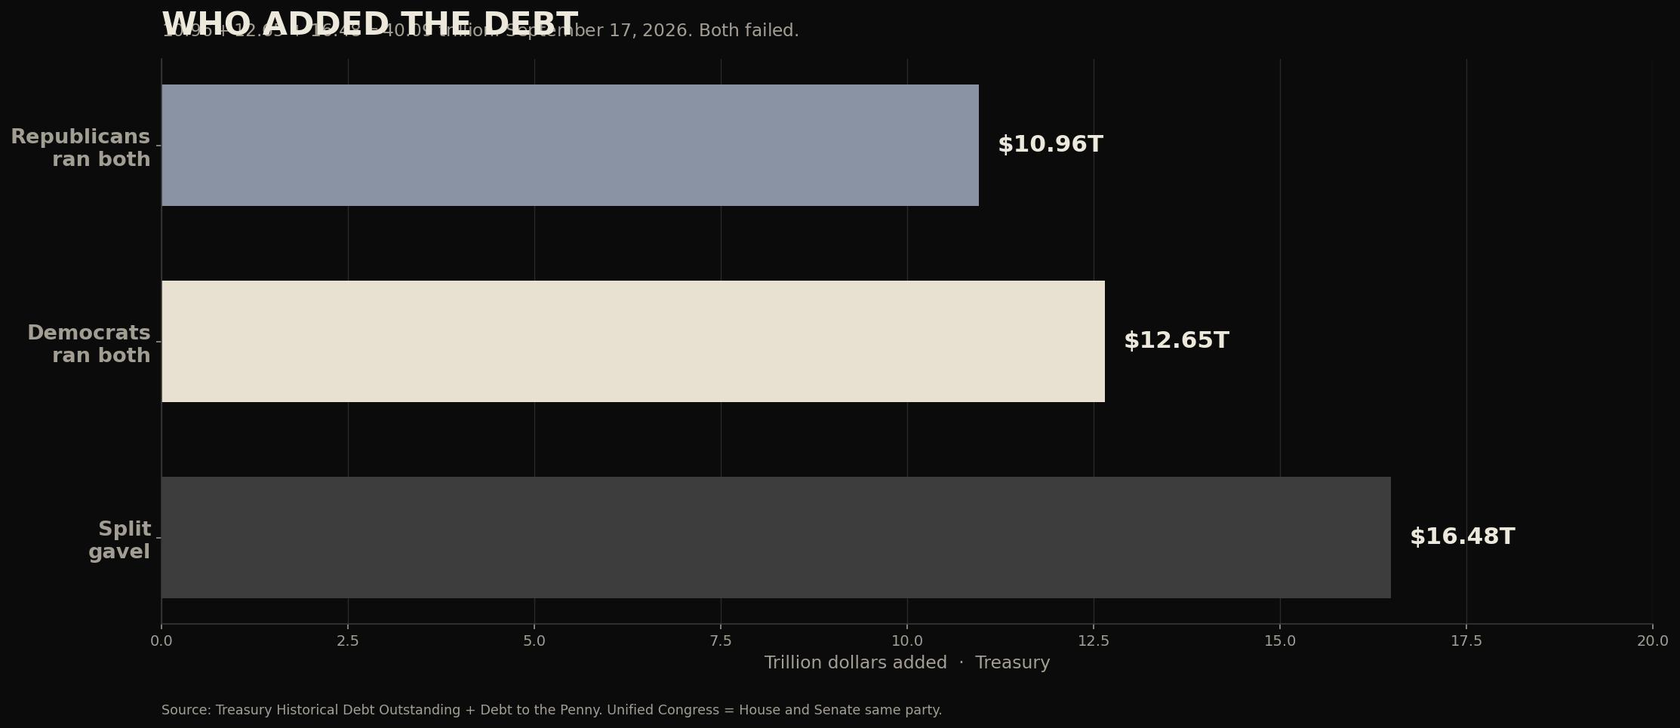
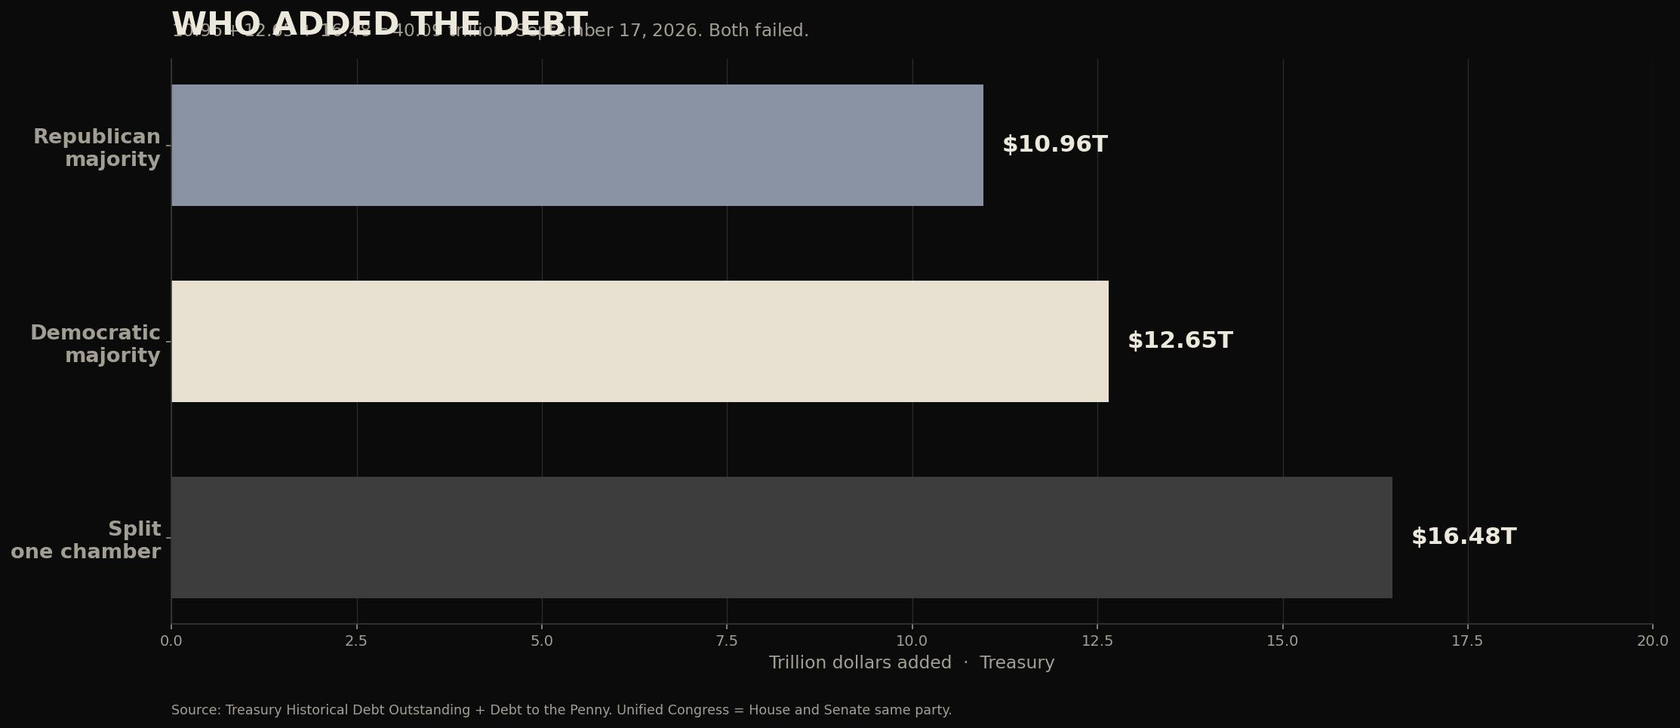
Compare: majority control is the purse. Obama both terms helped and hurt, with CPI on the ledger.

diff --git a/UPLOAD-TO-NAMECHEAP/scorecard.html b/UPLOAD-TO-NAMECHEAP/scorecard.html
@@ -118,12 +118,12 @@ footer .f{max-width:72rem;margin:0 auto;display:flex;justify-content:space-betwe
 <p class="btns"><a class="btn out" href="#gop-charts">Charts</a><a class="btn" href="#gop-read">Read</a></p>
 <h2>Republicans</h2>
 <p style="font-size:1.8rem;font-weight:800">+$10.96 trillion</p>
-<p>Ran both the House and the Senate: 1995–2001 · 2003–07 · 2015–19 · 2025–now</p>
+<p>Majority control of the House and the Senate: 1995–2001 · 2003–07 · 2015–19 · 2025–now. That is the purse. They could pass a spending bill without Democrats.</p>
 <p>Added about $10.96 trillion on those watches since 1995. Last surplus: late 1990s.</p>
 <p class="kicker">Helped</p>
-<ul><li><a href="https://www.congress.gov/bill/104th-congress/house-bill/3734"><strong>Welfare — work, or the check stops</strong><br/>H.R. 3734 · 1996</a></li><li><a href="https://www.congress.gov/bill/105th-congress/house-bill/2014"><strong>Tax cut on savings</strong><br/>H.R. 2014 · 1997</a></li><li><a href="https://www.congress.gov/bill/107th-congress/house-bill/1836"><strong>Fatter paycheck</strong><br/>H.R. 1836 · 2001</a></li><li><a href="https://www.congress.gov/bill/108th-congress/house-bill/2"><strong>Fatter paycheck, round two</strong><br/>H.R. 2 · 2003</a></li><li><a href="https://www.congress.gov/bill/115th-congress/house-bill/1"><strong>Fatter paycheck again. Not a surplus.</strong><br/>H.R. 1 · Tax Cuts and Jobs Act · 2017</a></li></ul>
+<ul><li><a href="https://www.congress.gov/bill/104th-congress/house-bill/3734"><strong>Welfare — work, or the check stops</strong><br/>H.R. 3734 · 1996</a></li><li><a href="https://www.congress.gov/bill/105th-congress/house-bill/2014"><strong>Tax cut on savings</strong><br/>H.R. 2014 · 1997</a></li><li><a href="https://www.congress.gov/bill/107th-congress/house-bill/1836"><strong>Fatter paycheck</strong><br/>H.R. 1836 · 2001</a></li><li><a href="https://www.congress.gov/bill/108th-congress/house-bill/2"><strong>Fatter paycheck, round two</strong><br/>H.R. 2 · 2003</a></li><li><a href="https://www.congress.gov/bill/115th-congress/house-bill/1"><strong>Fatter paycheck again. Not a surplus.</strong><br/>H.R. 1 · Tax Cuts and Jobs Act · 2017</a></li><li><a href="https://www.bls.gov/cpi/"><strong>Prices stayed down. CPI peak in the first Trump term: 2.9%.</strong><br/>BLS CPI · 2017–20</a></li><li><a href="https://www.cbp.gov/newsroom/stats/southwest-land-border-encounters"><strong>Southwest Border Patrol FY2025: 237,538. Lowest since 1970.</strong><br/>CBP · FY2025</a></li></ul>
 <p class="kicker">Hurt</p>
-<ul><li><a href="https://www.congress.gov/bill/107th-congress/house-joint-resolution/114"><strong>Iraq war — they voted yes</strong><br/>H.J.Res. 114 · 2002</a></li><li><a href="https://www.congress.gov/bill/108th-congress/house-bill/1"><strong>Drug benefit. They did not pay for it.</strong><br/>H.R. 1 · Medicare Part D · 2003</a></li><li><a href="https://www.congress.gov/bill/116th-congress/house-bill/748"><strong>COVID checks. Both parties. Then the fraud.</strong><br/>H.R. 748 · CARES Act · 2020</a></li><li><a href="https://www.congress.gov/bill/93rd-congress/house-bill/7130"><strong>They never finish the budget on time</strong><br/>H.R. 7130 · Budget Act · 1974</a></li></ul>
+<ul><li><a href="https://www.congress.gov/bill/107th-congress/house-joint-resolution/114"><strong>Iraq war — they voted yes</strong><br/>H.J.Res. 114 · 2002</a></li><li><a href="https://www.congress.gov/bill/108th-congress/house-bill/1"><strong>Drug benefit. They did not pay for it.</strong><br/>H.R. 1 · Medicare Part D · 2003</a></li><li><a href="https://fiscaldata.treasury.gov/datasets/historical-debt-outstanding/"><strong>Republican majority 2015–17, Obama still in the Oval. Debt still climbed. They did not close October 1.</strong><br/>Treasury · Historical Debt Outstanding</a></li><li><a href="https://www.congress.gov/bill/116th-congress/house-bill/748"><strong>COVID checks. Both parties. Then the fraud.</strong><br/>H.R. 748 · CARES Act · 2020</a></li><li><a href="https://www.congress.gov/bill/93rd-congress/house-bill/7130"><strong>They never finish the budget on time</strong><br/>H.R. 7130 · Budget Act · 1974</a></li></ul>
 
 
 
@@ -131,12 +131,12 @@ footer .f{max-width:72rem;margin:0 auto;display:flex;justify-content:space-betwe
 <p class="btns"><a class="btn out" href="#dem-charts">Charts</a><a class="btn" href="#dem-read">Read</a></p>
 <h2>Democrats</h2>
 <p style="font-size:1.8rem;font-weight:800">+$12.65 trillion</p>
-<p>Ran both the House and the Senate: 1993–95 · 2007–11 · 2021–23</p>
+<p>Majority control of the House and the Senate: 1993–95 · 2007–11 · 2021–23. That is the purse. They could pass a spending bill without Republicans. Obama’s first two years sit in 2007–11. His last six years were split, then a Republican majority.</p>
 <p>Added about $9.59 trillion on those watches since 1993. TARP. Stimulus. 9.1% prices in 2022.</p>
 <p class="kicker">Helped</p>
-<ul><li><a href="https://www.congress.gov/bill/103rd-congress/house-bill/2264"><strong>Raised the top tax. Cut the deficit that year.</strong><br/>H.R. 2264 · 1993</a></li></ul>
+<ul><li><a href="https://www.congress.gov/bill/103rd-congress/house-bill/2264"><strong>Raised the top tax. Cut the deficit that year.</strong><br/>H.R. 2264 · 1993</a></li><li><a href="https://www.congress.gov/bill/111th-congress/senate-bill/181"><strong>Lilly Ledbetter Fair Pay Act — first bill of the 111th Congress.</strong><br/>S. 181 · 2009</a></li><li><a href="https://www.congress.gov/bill/111th-congress/house-bill/2"><strong>CHIP — children’s coverage reauthorized.</strong><br/>H.R. 2 · CHIPRA · 2009</a></li><li><a href="https://www.congress.gov/bill/111th-congress/house-bill/3590"><strong>ObamaCare: some people got a card. That is the help. The tax and the mandate sit under Hurt.</strong><br/>H.R. 3590 · 2010</a></li></ul>
 <p class="kicker">Hurt</p>
-<ul><li><a href="https://www.cbo.gov/publication/61256"><strong>They opened the border. Seven million encounters. The bill is still due.</strong><br/>CBP · CBO 2023 · FY2021–24</a></li><li><a href="https://www.ssa.gov/policy/docs/statcomps/ssi_asr/"><strong>SSI to qualified aliens — $715 average a month</strong><br/>SSA · Dec 2025 · $994 cap in 2026</a></li><li><a href="https://www.fns.usda.gov/pd/supplemental-nutrition-assistance-program-snap"><strong>SNAP — $190 a person a month</strong><br/>USDA FNS · FY2026</a></li><li><a href="https://www.macpac.gov/publication/medicaid-benefit-spending-per-full-year-equivalent-fye-enrollee-by-state-and-eligibility-group/"><strong>Medicaid — about $771 a month per full-benefit enrollee</strong><br/>MACPAC · FY2023</a></li><li><a href="https://www.huduser.gov/portal/datasets/assthsg.html"><strong>Housing help — about $917 a month</strong><br/>HUD · mixed-family HAP</a></li><li><a href="https://www.cms.gov/medicare/payment/medicare-part-b"><strong>The worker waits for a doctor. Medicare pays too little. Part B still takes $202.90.</strong><br/>CMS Part B 2026 · MGMA</a></li><li><a href="https://www.congress.gov/bill/110th-congress/house-bill/1424"><strong>Bank bailout</strong><br/>H.R. 1424 · TARP · 2008</a></li><li><a href="https://www.congress.gov/bill/111th-congress/house-bill/1"><strong>Stimulus after the crash</strong><br/>H.R. 1 · 2009</a></li><li><a href="https://www.congress.gov/bill/111th-congress/house-bill/3590"><strong>ObamaCare — new taxes, a mandate</strong><br/>H.R. 3590 · 2010</a></li><li><a href="https://www.congress.gov/bill/117th-congress/house-bill/1319"><strong>More spending after COVID</strong><br/>H.R. 1319 · Rescue Plan · 2021</a></li><li><a href="https://www.congress.gov/bill/117th-congress/house-bill/5376"><strong>Corporate tax went up</strong><br/>H.R. 5376 · 2022</a></li><li><a href="https://www.bls.gov/news.release/archives/cpi_07132022.htm"><strong>Prices hit 9.1%. Groceries. Rent. Fuel.</strong><br/>BLS CPI · June 2022</a></li><li><a href="https://www.congress.gov/bill/93rd-congress/house-bill/7130"><strong>They never finish the budget on time either</strong><br/>H.R. 7130 · Budget Act · 1974</a></li><li><a href="https://www.justice.gov/usao-dc/48-months-jan-6-attack-us-capitol"><strong>January 6 — the caption was insurrection. The charge sheet was not.</strong><br/>18 U.S.C. § 2383 · USAO-DC tally</a></li><li><a href="https://www.congress.gov/bill/117th-congress/house-resolution/503"><strong>The Speaker stacked the J6 committee. Jordan and Banks were rejected.</strong><br/>H.Res. 503 · 117th Congress</a></li><li><a href="https://www.congress.gov/bill/116th-congress/house-resolution/755"><strong>They impeached twice. Then four criminal dockets.</strong><br/>H.Res. 755 · 116th Congress</a></li><li><a href="https://www.dhs.gov/archive/news/2022/08/24/following-hsac-recommendation-dhs-terminates-disinformation-governance-board"><strong>DHS named a board to govern disinformation.</strong><br/>DHS · terminated Aug. 24, 2022</a></li></ul>
+<ul><li><a href="https://www.cbo.gov/publication/61256"><strong>They opened the border. Seven million encounters. The bill is still due.</strong><br/>CBP · CBO 2023 · FY2021–24</a></li><li><a href="https://www.ssa.gov/policy/docs/statcomps/ssi_asr/"><strong>SSI to qualified aliens — $715 average a month</strong><br/>SSA · Dec 2025 · $994 cap in 2026</a></li><li><a href="https://www.fns.usda.gov/pd/supplemental-nutrition-assistance-program-snap"><strong>SNAP — $190 a person a month</strong><br/>USDA FNS · FY2026</a></li><li><a href="https://www.macpac.gov/publication/medicaid-benefit-spending-per-full-year-equivalent-fye-enrollee-by-state-and-eligibility-group/"><strong>Medicaid — about $771 a month per full-benefit enrollee</strong><br/>MACPAC · FY2023</a></li><li><a href="https://www.huduser.gov/portal/datasets/assthsg.html"><strong>Housing help — about $917 a month</strong><br/>HUD · mixed-family HAP</a></li><li><a href="https://www.cms.gov/medicare/payment/medicare-part-b"><strong>The worker waits for a doctor. Medicare pays too little. Part B still takes $202.90.</strong><br/>CMS Part B 2026 · MGMA</a></li><li><a href="https://www.congress.gov/bill/110th-congress/house-bill/1424"><strong>Bank bailout</strong><br/>H.R. 1424 · TARP · 2008</a></li><li><a href="https://www.congress.gov/bill/111th-congress/house-bill/1"><strong>Stimulus after the crash</strong><br/>H.R. 1 · 2009</a></li><li><a href="https://www.congress.gov/bill/111th-congress/house-bill/3590"><strong>ObamaCare — new taxes, a mandate</strong><br/>H.R. 3590 · 2010</a></li><li><a href="https://www.uscis.gov/humanitarian/consideration-of-deferred-action-for-childhood-arrivals-daca"><strong>DACA, June 15, 2012. A memo. Not a statute. Congress did not pass it.</strong><br/>DHS memo · 2012</a></li><li><a href="https://www.cbp.gov/document/stats/us-border-patrol-fiscal-year-southwest-border-sector-apprehensions-fy-1960-fy-2019"><strong>Obama’s two terms, southwest Border Patrol: 3.31 million apprehensions, FY2009–16.</strong><br/>CBP · FY1960–2019 table</a></li><li><a href="https://www.bls.gov/news.release/archives/cpi_10192011.htm"><strong>CPI 3.9%, September 2011. Obama Oval. Republican House. Split Congress. Still the grocery ticket.</strong><br/>BLS CPI · September 2011</a></li><li><a href="https://www.congress.gov/bill/117th-congress/house-bill/1319"><strong>More spending after COVID</strong><br/>H.R. 1319 · Rescue Plan · 2021</a></li><li><a href="https://www.congress.gov/bill/117th-congress/house-bill/5376"><strong>Corporate tax went up</strong><br/>H.R. 5376 · 2022</a></li><li><a href="https://www.bls.gov/news.release/archives/cpi_07132022.htm"><strong>Prices hit 9.1%. Groceries. Rent. Fuel.</strong><br/>BLS CPI · June 2022</a></li><li><a href="https://www.congress.gov/bill/93rd-congress/house-bill/7130"><strong>They never finish the budget on time either</strong><br/>H.R. 7130 · Budget Act · 1974</a></li><li><a href="https://www.justice.gov/usao-dc/48-months-jan-6-attack-us-capitol"><strong>January 6 — the caption was insurrection. The charge sheet was not.</strong><br/>18 U.S.C. § 2383 · USAO-DC tally</a></li><li><a href="https://www.congress.gov/bill/117th-congress/house-resolution/503"><strong>The Speaker stacked the J6 committee. Jordan and Banks were rejected.</strong><br/>H.Res. 503 · 117th Congress</a></li><li><a href="https://www.congress.gov/bill/116th-congress/house-resolution/755"><strong>They impeached twice. Then four criminal dockets.</strong><br/>H.Res. 755 · 116th Congress</a></li><li><a href="https://www.dhs.gov/archive/news/2022/08/24/following-hsac-recommendation-dhs-terminates-disinformation-governance-board"><strong>DHS named a board to govern disinformation.</strong><br/>DHS · terminated Aug. 24, 2022</a></li></ul>
 <p><strong>Crossfire Hurricane</strong><br/>The Durham report: the FBI opened a full investigation on raw, uncorroborated intelligence. It did not have actual evidence of collusion in its holdings when the case began. Years of a Russia caption followed. The file did not.<br/><a href="https://www.justice.gov/storage/durhamreport.pdf">The file →</a></p><p><strong>Parents as a federal problem</strong><br/>The National School Boards Association, September 29, 2021, asked the White House to treat threats around school boards as possibly ‘the equivalent to a form of domestic terrorism.’ Five days later the Attorney General ordered U.S. Attorneys and the FBI to coordinate. The FBI opened an EDUOFFICIALS tag. NSBA later apologized for the language. The memo stayed.<br/><a href="https://www.justice.gov/d9/press-releases/attachments/2021/10/04/ag_memo_1.pdf">The file →</a></p><p><strong>The J6 panel was stacked</strong><br/>H.Res. 503 gave the Speaker the appointments. She named Liz Cheney and Adam Kinzinger. She rejected the minority leader’s picks, Jim Jordan and Jim Banks. A select committee that chooses its own opposition is not a jury. It is a production.<br/><a href="https://www.congress.gov/bill/117th-congress/house-resolution/503">The file →</a></p><p><strong>The charge was not insurrection</strong><br/>The country was told insurrection. 18 U.S.C. § 2383 is the insurrection statute. The U.S. Attorney for D.C. published the tally: about 1,583 federally charged. Assault, trespass, civil disorder, about 18 charged with seditious conspiracy under § 2384. Zero charged under § 2383. The caption did work the statute did not.<br/><a href="https://www.justice.gov/usao-dc/48-months-jan-6-attack-us-capitol">The file →</a></p><p><strong>The tape sat in the House</strong><br/>The Capitol’s cameras recorded thousands of hours. The select committee showed clips. The full archive was not put in the public’s hands while the hearings ran. Later Speakers opened more of it. A hearing that holds the tape and plays the minutes it prefers is the same method as a six-second caption.<br/><a href="https://www.congress.gov/committee/house-administration/hsha00">The file →</a></p><p><strong>A board to govern ‘disinformation’</strong><br/>DHS stood up a Disinformation Governance Board in 2022. The Secretary told Congress it would combat a threat to homeland security. The department terminated the board and rescinded its charter on August 24, 2022. A cabinet department had named a board to police the information the public would receive.<br/><a href="https://www.dhs.gov/archive/news/2022/08/24/following-hsac-recommendation-dhs-terminates-disinformation-governance-board">The file →</a></p><p><strong>The FISA file was not scrupulously accurate</strong><br/>Inspector General Horowitz: seventeen inaccuracies and omissions across the Carter Page FISA applications used to surveil a U.S. person tied to a presidential campaign. The caption was Russia. The applications were not scrupulously accurate.<br/><a href="https://oig.justice.gov/reports/2019/o1912.pdf">The file →</a></p><p><strong>Two impeachments. Four dockets. One method.</strong><br/>The House impeached twice. Then four criminal dockets ran at once against the same man the country had hired. The public paid for the committee. Defense is not free. A presidency can be buried in process without a statute that matches the caption.<br/><a href="https://www.congress.gov/bill/116th-congress/house-resolution/755">The file →</a></p><p><strong>The House record on the machine</strong><br/>H.Res. 12 created the Select Subcommittee on the Weaponization of the Federal Government. The committee published that the executive had pressured platforms and that fifty-one former intelligence officials had signed a letter treating the Hunter Biden laptop as a Russian trick weeks before the 2020 vote. Read the House file. A panel is not a court. It is the other ledger.<br/><a href="https://judiciary.house.gov/media/press-releases/new-judiciary-committee-website-highlights-activities-and-findings-select">The file →</a></p>
 <p><a href="/dispatch/the-caption-was-not-the-charge.html">The essay →</a></p>
 <p class="kicker">They opened the border</p>
@@ -172,8 +172,14 @@ footer .f{max-width:72rem;margin:0 auto;display:flex;justify-content:space-betwe
 <div class="panel" id="compare-read">
 <p class="btns"><a class="btn out" href="#compare-charts">Charts</a><a class="btn" href="#compare-read">Read</a></p>
 <h2>Compare</h2>
-<div class="grid"><a class="card" href="https://fiscaldata.treasury.gov/datasets/historical-debt-outstanding/" style="padding:1.2rem"><p class="kicker">Republicans ran both</p><h3>+$10.96 trillion</h3><div style="height:10px;background:#141414;margin-top:.8rem"><div style="height:10px;width:27%;background:#e8e0d0"></div></div><p>27% of the $40.09T</p></a><a class="card" href="https://fiscaldata.treasury.gov/datasets/historical-debt-outstanding/" style="padding:1.2rem"><p class="kicker">Democrats ran both</p><h3>+$12.65 trillion</h3><div style="height:10px;background:#141414;margin-top:.8rem"><div style="height:10px;width:32%;background:#e8e0d0"></div></div><p>32% of the $40.09T</p></a><a class="card" href="https://fiscaldata.treasury.gov/datasets/historical-debt-outstanding/" style="padding:1.2rem"><p class="kicker">They split the gavel</p><h3>+$16.48 trillion</h3><div style="height:10px;background:#141414;margin-top:.8rem"><div style="height:10px;width:41%;background:#e8e0d0"></div></div><p>41% of the $40.09T</p></a></div>
+<p class="kicker">Congress holds the purse. Majority control is the test.</p>
+<p>Article I gives Congress the power of the purse. The Oval spends what Congress votes. Majority control means one party holds the House and the Senate at the same time. Then that party can pass a spending bill without the other. Success and failure on this page are the bills they passed and the prices, the border, and the debt that followed. A speech is not a record.</p>
+<p><a href="https://constitution.congress.gov/constitution/article-1/">Article I →</a></p>
+<div class="grid"><a class="card" href="https://www.congress.gov/bill/115th-congress/house-bill/1" style="padding:1.2rem"><h3>Republican majority — House and Senate</h3><p>1995–2001 · 2003–07 · 2015–19 · 2025–now</p><p>They could pass a spending bill without Democrats.</p><p>Tax cuts. Iraq. Unpaid drug benefit. Border down this term. Debt still up.</p></a><a class="card" href="https://www.congress.gov/bill/111th-congress/house-bill/3590" style="padding:1.2rem"><h3>Democratic majority — House and Senate</h3><p>1993–95 · 2007–11 · 2021–23</p><p>They could pass a spending bill without Republicans.</p><p>Raised taxes. Passed ObamaCare. Prices hit 9.1% in 2022. Record border crossings. The debt still went up.</p></a><a class="card" href="https://fiscaldata.treasury.gov/datasets/debt-to-the-penny/" style="padding:1.2rem"><h3>They split — one house each</h3><p>Most other years. Nixon. Bush 41. 2011–15. COVID. 2023–25.</p><p>Neither party could spend alone. They still spent.</p><p>A Republican president with a Democratic Congress is not an excuse. Nixon: Republican in the White House, Democrats ran Congress, the debt still rose. The $40 trillion is both of them.</p></a></div>
+<div class="grid"><a class="card" href="https://fiscaldata.treasury.gov/datasets/historical-debt-outstanding/" style="padding:1.2rem"><p class="kicker">Republican majority — House and Senate</p><h3>+$10.96 trillion</h3><div style="height:10px;background:#141414;margin-top:.8rem"><div style="height:10px;width:27%;background:#e8e0d0"></div></div><p>27% of the $40.09T</p><p>1861–75 · 1881–83 · 1889–91 · 1895–1911 · 1919–31 · 1947–49 · 1953–55 · 1995–2001 · 2003–07 · 2015–19 · 2025–now</p></a><a class="card" href="https://fiscaldata.treasury.gov/datasets/historical-debt-outstanding/" style="padding:1.2rem"><p class="kicker">Democratic majority — House and Senate</p><h3>+$12.65 trillion</h3><div style="height:10px;background:#141414;margin-top:.8rem"><div style="height:10px;width:32%;background:#e8e0d0"></div></div><p>32% of the $40.09T</p><p>1857–59 · 1875–81 · 1893–95 · 1913–19 · 1933–47 · 1949–53 · 1955–81 · 1987–95 · 2007–11 · 2021–23</p></a><a class="card" href="https://fiscaldata.treasury.gov/datasets/historical-debt-outstanding/" style="padding:1.2rem"><p class="kicker">Split — one chamber each</p><h3>+$16.48 trillion</h3><div style="height:10px;background:#141414;margin-top:.8rem"><div style="height:10px;width:41%;background:#e8e0d0"></div></div><p>41% of the $40.09T</p><p>Every other year since 1857 — one house each</p></a></div>
 <p>September 17, 2026: $40.09 trillion. $10.96 + $12.65 + $16.48 = $40.09. Before 1857 the two parties did not yet run the modern Congress. The debt then was $29 million.</p>
+<figure><img src="/images/chart-policy.jpg" alt="Policy — success and failure"/></figure>
+<h2>Obama, first term · 2009–13</h2><p>Democratic majority, House and Senate, January 2009–January 2011. Then a Republican House. Split.</p><p class="kicker">Helped</p><ul><li><a href="https://www.congress.gov/bill/111th-congress/senate-bill/181"><strong>Lilly Ledbetter Fair Pay Act.</strong><br/>S. 181 · 2009</a></li><li><a href="https://www.congress.gov/bill/111th-congress/house-bill/2"><strong>CHIP reauthorized.</strong><br/>H.R. 2 · 2009</a></li></ul><p class="kicker">Hurt</p><ul><li><a href="https://www.congress.gov/bill/111th-congress/house-bill/1"><strong>Stimulus after the crash. The meter jumped.</strong><br/>H.R. 1 · ARRA · 2009</a></li><li><a href="https://www.congress.gov/bill/111th-congress/house-bill/3590"><strong>ObamaCare: new taxes and a mandate, Democratic majority, 2010.</strong><br/>H.R. 3590 · 2010</a></li><li><a href="https://www.bls.gov/news.release/archives/cpi_10192011.htm"><strong>CPI 3.9%, September 2011. Split Congress. Obama Oval.</strong><br/>BLS CPI · September 2011</a></li></ul><h2>Obama, second term · 2013–17</h2><p>Split until January 2015. Republican majority, House and Senate, 2015–17. The Oval was still Obama. The purse was not.</p><p class="kicker">Helped</p><ul><li><a href="https://www.bls.gov/cpi/"><strong>CPI stayed low after 2011. No 9% spike in this term.</strong><br/>BLS CPI</a></li></ul><p class="kicker">Hurt</p><ul><li><a href="https://www.uscis.gov/humanitarian/consideration-of-deferred-action-for-childhood-arrivals-daca"><strong>DACA, June 15, 2012, carried through the second term. A memo. Not a vote.</strong><br/>DHS / USCIS</a></li><li><a href="https://www.cbp.gov/document/stats/us-border-patrol-fiscal-year-southwest-border-sector-apprehensions-fy-1960-fy-2019"><strong>Southwest Border Patrol, eight fiscal years: 3.31 million. FY2014 unaccompanied-child spike sat in this Oval.</strong><br/>CBP · FY1960–2019</a></li><li><a href="https://fiscaldata.treasury.gov/datasets/historical-debt-outstanding/"><strong>Republican majority 2015–17 did not close October 1. Debt still climbed on a Republican purse and a Democratic Oval.</strong><br/>Treasury</a></li></ul>
 <div class="grid"><a class="card" href="https://constitution.congress.gov/constitution/article-1/" style="padding:1rem"><h3 style="padding:0">Article I — the purse</h3></a><a class="card" href="https://constitution.congress.gov/constitution/article-6/" style="padding:1rem"><h3 style="padding:0">Article VI — supremacy</h3></a><a class="card" href="https://www.law.cornell.edu/uscode/text/5/3331" style="padding:1rem"><h3 style="padding:0">The oath — 5 U.S.C. § 3331</h3></a><a class="card" href="https://www.congress.gov/bill/93rd-congress/house-bill/7130" style="padding:1rem"><h3 style="padding:0">Budget Act — twelve bills by October 1</h3></a><a class="card" href="https://www.gao.gov/products/gao-25-107746" style="padding:1rem"><h3 style="padding:0">GAO — fraud $233–521B a year</h3></a><a class="card" href="https://fiscaldata.treasury.gov/datasets/debt-to-the-penny/" style="padding:1rem"><h3 style="padding:0">Treasury — debt to the penny</h3></a><a class="card" href="https://www.law.cornell.edu/uscode/text/8/1324" style="padding:1rem"><h3 style="padding:0">8 U.S.C. § 1324 — harboring</h3></a><a class="card" href="https://www.law.cornell.edu/uscode/text/8/1373" style="padding:1rem"><h3 style="padding:0">8 U.S.C. § 1373 — no gag on ICE</h3></a><a class="card" href="https://www.law.cornell.edu/uscode/text/8/1611" style="padding:1rem"><h3 style="padding:0">8 U.S.C. § 1611 — federal benefits</h3></a><a class="card" href="https://www.law.cornell.edu/uscode/text/2/1415" style="padding:1rem"><h3 style="padding:0">2 U.S.C. § 1415 — they billed you for their misconduct</h3></a><a class="card" href="https://www.law.cornell.edu/uscode/text/18/2383" style="padding:1rem"><h3 style="padding:0">18 U.S.C. § 2383 — insurrection</h3></a></div>
 </div>
 </main>

diff --git a/src/lib/scorecard.ts b/src/lib/scorecard.ts
@@ -37,19 +37,19 @@ export const DEBT_TALLY: {
   href: string;
 }[] = [
   {
-    who: "Republicans ran both",
+    who: "Republican majority — House and Senate",
     when: "1861–75 · 1881–83 · 1889–91 · 1895–1911 · 1919–31 · 1947–49 · 1953–55 · 1995–2001 · 2003–07 · 2015–19 · 2025–now",
     added: "+$10.96 trillion",
     href: "https://fiscaldata.treasury.gov/datasets/historical-debt-outstanding/",
   },
   {
-    who: "Democrats ran both",
+    who: "Democratic majority — House and Senate",
     when: "1857–59 · 1875–81 · 1893–95 · 1913–19 · 1933–47 · 1949–53 · 1955–81 · 1987–95 · 2007–11 · 2021–23",
     added: "+$12.65 trillion",
     href: "https://fiscaldata.treasury.gov/datasets/historical-debt-outstanding/",
   },
   {
-    who: "They split the gavel",
+    who: "Split — one chamber each",
     when: "Every other year since 1857 — one house each",
     added: "+$16.48 trillion",
     href: "https://fiscaldata.treasury.gov/datasets/historical-debt-outstanding/",
@@ -58,6 +58,86 @@ export const DEBT_TALLY: {
 
 export const DEBT_MATH =
   "$10.96 + $12.65 + $16.48 = $40.09. Before 1857 the two parties did not yet run the modern Congress. The debt then was $29 million.";
+
+/** Article I. Majority control is the purse. */
+export const PURSE = {
+  k: "Congress holds the purse. Majority control is the test.",
+  v: "Article I gives Congress the power of the purse. The Oval spends what Congress votes. Majority control means one party holds the House and the Senate at the same time. Then that party can pass a spending bill without the other. Success and failure on this page are the bills they passed and the prices, the border, and the debt that followed. A speech is not a record.",
+  href: "https://constitution.congress.gov/constitution/article-1/",
+};
+
+/** Obama’s two terms. The purse moved. The journal keeps both. */
+export const OBAMA_TERMS: {
+  who: string;
+  majority: string;
+  plus: { k: string; bill: string; href: string }[];
+  minus: { k: string; bill: string; href: string }[];
+}[] = [
+  {
+    who: "Obama, first term · 2009–13",
+    majority:
+      "Democratic majority, House and Senate, January 2009–January 2011. Then a Republican House. Split.",
+    plus: [
+      {
+        k: "Lilly Ledbetter Fair Pay Act.",
+        bill: "S. 181 · 2009",
+        href: "https://www.congress.gov/bill/111th-congress/senate-bill/181",
+      },
+      {
+        k: "CHIP reauthorized.",
+        bill: "H.R. 2 · 2009",
+        href: "https://www.congress.gov/bill/111th-congress/house-bill/2",
+      },
+    ],
+    minus: [
+      {
+        k: "Stimulus after the crash. The meter jumped.",
+        bill: "H.R. 1 · ARRA · 2009",
+        href: "https://www.congress.gov/bill/111th-congress/house-bill/1",
+      },
+      {
+        k: "ObamaCare: new taxes and a mandate, Democratic majority, 2010.",
+        bill: "H.R. 3590 · 2010",
+        href: "https://www.congress.gov/bill/111th-congress/house-bill/3590",
+      },
+      {
+        k: "CPI 3.9%, September 2011. Split Congress. Obama Oval.",
+        bill: "BLS CPI · September 2011",
+        href: "https://www.bls.gov/news.release/archives/cpi_10192011.htm",
+      },
+    ],
+  },
+  {
+    who: "Obama, second term · 2013–17",
+    majority:
+      "Split until January 2015. Republican majority, House and Senate, 2015–17. The Oval was still Obama. The purse was not.",
+    plus: [
+      {
+        k: "CPI stayed low after 2011. No 9% spike in this term.",
+        bill: "BLS CPI",
+        href: "https://www.bls.gov/cpi/",
+      },
+    ],
+    minus: [
+      {
+        k: "DACA, June 15, 2012, carried through the second term. A memo. Not a vote.",
+        bill: "DHS / USCIS",
+        href: "https://www.uscis.gov/humanitarian/consideration-of-deferred-action-for-childhood-arrivals-daca",
+      },
+      {
+        k: "Southwest Border Patrol, eight fiscal years: 3.31 million. FY2014 unaccompanied-child spike sat in this Oval.",
+        bill: "CBP · FY1960–2019",
+        href: "https://www.cbp.gov/document/stats/us-border-patrol-fiscal-year-southwest-border-sector-apprehensions-fy-1960-fy-2019",
+      },
+      {
+        k: "Republican majority 2015–17 did not close October 1. Debt still climbed on a Republican purse and a Democratic Oval.",
+        bill: "Treasury",
+        href: "https://fiscaldata.treasury.gov/datasets/historical-debt-outstanding/",
+      },
+    ],
+  },
+];
+
 
 /** Official statute and table. Always on the page. Not a caption. */
 export const LAWS: { k: string; href: string }[] = [
@@ -359,7 +439,7 @@ export const WORKER = {
 
 export const PRICES = {
   k: "Prices — Democrats held the gavel",
-  v: "9.1 percent in June 2022. Democrats ran both chambers. That is the peak. The live table did not stop there. BLS, August 2026: 3.4 percent over the year. The grocery ticket is still their watch.",
+  v: "9.1 percent in June 2022. Democratic majority in the House and the Senate. That is the peak. The live table did not stop there. BLS, August 2026: 3.4 percent over the year. The grocery ticket is still their watch.",
   links: [
     { label: "BLS — 9.1% in June 2022", href: "https://www.bls.gov/news.release/archives/cpi_07132022.htm" },
     { label: "BLS — live CPI, August 2026 (3.4%)", href: "https://www.bls.gov/news.release/cpi.nr0.htm" },
@@ -617,7 +697,7 @@ export const RECORD: {
   {
     id: "gop",
     party: "Republicans",
-    control: "Ran both the House and the Senate: 1995–2001 · 2003–07 · 2015–19 · 2025–now",
+    control: "Majority control of the House and the Senate: 1995–2001 · 2003–07 · 2015–19 · 2025–now. That is the purse. They could pass a spending bill without Democrats.",
     debt: "Added about $10.96 trillion on those watches since 1995. Last surplus: late 1990s.",
     plus: [
       {
@@ -645,6 +725,16 @@ export const RECORD: {
         bill: "H.R. 1 · Tax Cuts and Jobs Act · 2017",
         href: "https://www.congress.gov/bill/115th-congress/house-bill/1",
       },
+      {
+        k: "Prices stayed down. CPI peak in the first Trump term: 2.9%.",
+        bill: "BLS CPI · 2017–20",
+        href: "https://www.bls.gov/cpi/",
+      },
+      {
+        k: "Southwest Border Patrol FY2025: 237,538. Lowest since 1970.",
+        bill: "CBP · FY2025",
+        href: "https://www.cbp.gov/newsroom/stats/southwest-land-border-encounters",
+      },
     ],
     minus: [
       {
@@ -656,6 +746,11 @@ export const RECORD: {
         k: "Drug benefit. They did not pay for it.",
         bill: "H.R. 1 · Medicare Part D · 2003",
         href: "https://www.congress.gov/bill/108th-congress/house-bill/1",
+      },
+      {
+        k: "Republican majority 2015–17, Obama still in the Oval. Debt still climbed. They did not close October 1.",
+        bill: "Treasury · Historical Debt Outstanding",
+        href: "https://fiscaldata.treasury.gov/datasets/historical-debt-outstanding/",
       },
       {
         k: "COVID checks. Both parties. Then the fraud.",
@@ -672,13 +767,28 @@ export const RECORD: {
   {
     id: "dem",
     party: "Democrats",
-    control: "Ran both the House and the Senate: 1993–95 · 2007–11 · 2021–23",
+    control: "Majority control of the House and the Senate: 1993–95 · 2007–11 · 2021–23. That is the purse. They could pass a spending bill without Republicans. Obama’s first two years sit in 2007–11. His last six years were split, then a Republican majority.",
     debt: "Added about $9.59 trillion on those watches since 1993. TARP. Stimulus. 9.1% prices in 2022.",
     plus: [
       {
         k: "Raised the top tax. Cut the deficit that year.",
         bill: "H.R. 2264 · 1993",
         href: "https://www.congress.gov/bill/103rd-congress/house-bill/2264",
+      },
+      {
+        k: "Lilly Ledbetter Fair Pay Act — first bill of the 111th Congress.",
+        bill: "S. 181 · 2009",
+        href: "https://www.congress.gov/bill/111th-congress/senate-bill/181",
+      },
+      {
+        k: "CHIP — children’s coverage reauthorized.",
+        bill: "H.R. 2 · CHIPRA · 2009",
+        href: "https://www.congress.gov/bill/111th-congress/house-bill/2",
+      },
+      {
+        k: "ObamaCare: some people got a card. That is the help. The tax and the mandate sit under Hurt.",
+        bill: "H.R. 3590 · 2010",
+        href: "https://www.congress.gov/bill/111th-congress/house-bill/3590",
       },
     ],
     minus: [
@@ -726,6 +836,21 @@ export const RECORD: {
         k: "ObamaCare — new taxes, a mandate",
         bill: "H.R. 3590 · 2010",
         href: "https://www.congress.gov/bill/111th-congress/house-bill/3590",
+      },
+      {
+        k: "DACA, June 15, 2012. A memo. Not a statute. Congress did not pass it.",
+        bill: "DHS memo · 2012",
+        href: "https://www.uscis.gov/humanitarian/consideration-of-deferred-action-for-childhood-arrivals-daca",
+      },
+      {
+        k: "Obama’s two terms, southwest Border Patrol: 3.31 million apprehensions, FY2009–16.",
+        bill: "CBP · FY1960–2019 table",
+        href: "https://www.cbp.gov/document/stats/us-border-patrol-fiscal-year-southwest-border-sector-apprehensions-fy-1960-fy-2019",
+      },
+      {
+        k: "CPI 3.9%, September 2011. Obama Oval. Republican House. Split Congress. Still the grocery ticket.",
+        bill: "BLS CPI · September 2011",
+        href: "https://www.bls.gov/news.release/archives/cpi_10192011.htm",
       },
       {
         k: "More spending after COVID",
@@ -1010,7 +1135,7 @@ export const MAJORITY: {
   extra?: { label: string; href: string }[];
 }[] = [
   {
-    who: "Republicans ran both",
+    who: "Republican majority — House and Senate",
     when: "1995–2001 · 2003–07 · 2015–19 · 2025–now",
     could: "They could pass a spending bill without Democrats.",
     did: "Tax cuts. Iraq. Unpaid drug benefit. Border down this term. Debt still up.",
@@ -1021,7 +1146,7 @@ export const MAJORITY: {
     ],
   },
   {
-    who: "Democrats ran both",
+    who: "Democratic majority — House and Senate",
     when: "1993–95 · 2007–11 · 2021–23",
     could: "They could pass a spending bill without Republicans.",
     did: "Raised taxes. Passed ObamaCare. Prices hit 9.1% in 2022. Record border crossings. The debt still went up.",

diff --git a/src/components/midterm-scorecard.tsx b/src/components/midterm-scorecard.tsx
@@ -18,7 +18,10 @@ import {
   DRIVERS,
   HOAXES,
   LAWS,
+  MAJORITY,
+  OBAMA_TERMS,
   PRICES,
+  PURSE,
   RECORD,
   SCORE_TABS,
   TAB_CHARTS,
@@ -112,7 +115,7 @@ function BillList({
 
 function PartyFile({ col }: { col: (typeof RECORD)[number] }) {
   const tally = DEBT_TALLY.find((t) =>
-    col.id === "gop" ? t.who.startsWith("Republicans") : t.who.startsWith("Democrats"),
+    col.id === "gop" ? t.who.startsWith("Republican") : t.who.startsWith("Democratic"),
   );
   return (
     <div>
@@ -604,7 +607,39 @@ export function MidtermScorecard() {
         ) : null}
 
         {tab === "compare" && mode === "read" ? (
-          <div className="mt-10">
+          <div className="mt-10 space-y-10">
+            <div className="rounded-md border border-border bg-surface p-5">
+              <p className="font-display text-xs font-semibold tracking-[0.2em] text-sage uppercase">
+                {PURSE.k}
+              </p>
+              <p className="mt-3 text-base leading-relaxed">{PURSE.v}</p>
+              <a
+                href={PURSE.href}
+                target="_blank"
+                rel="noreferrer"
+                className="mt-3 inline-flex min-h-11 items-center font-display text-xs font-semibold tracking-wide text-sage uppercase no-underline hover:text-fg"
+              >
+                Article I →
+              </a>
+            </div>
+            <div className="grid gap-4 md:grid-cols-3">
+              {MAJORITY.map((m) => (
+                <a
+                  key={m.who}
+                  href={m.href}
+                  target="_blank"
+                  rel="noreferrer"
+                  className="block rounded-md border border-border bg-surface p-5 text-fg no-underline hover:border-sage"
+                >
+                  <p className="font-display text-sm font-bold tracking-wide uppercase">
+                    {m.who}
+                  </p>
+                  <p className="mt-2 text-xs leading-relaxed text-muted">{m.when}</p>
+                  <p className="mt-3 text-sm leading-relaxed">{m.could}</p>
+                  <p className="mt-2 text-sm leading-relaxed">{m.did}</p>
+                </a>
+              ))}
+            </div>
             <div className="grid gap-4 md:grid-cols-3">
               {DEBT_TALLY.map((row) => {
                 const n = Number(row.added.replace(/[^0-9.]/g, ""));
@@ -629,14 +664,40 @@ export function MidtermScorecard() {
                     <p className="mt-2 font-display text-xs tracking-[0.12em] text-muted uppercase">
                       {pct}% of the $40.09T
                     </p>
+                    <p className="mt-3 text-xs leading-relaxed text-muted">{row.when}</p>
                   </div>
                 );
               })}
             </div>
-            <p className="mt-4 text-sm leading-relaxed text-muted">
+            <p className="text-sm leading-relaxed text-muted">
               {DEBT_NOW.asOf}: {DEBT_NOW.total}. {DEBT_MATH}
             </p>
-            <ul className="mt-8 grid grid-cols-1 gap-2 sm:grid-cols-2">
+            <figure>
+              <img
+                src="/images/chart-policy.jpg"
+                alt="Policy — success and failure"
+                className="h-auto w-full rounded-md border border-border"
+              />
+            </figure>
+            {OBAMA_TERMS.map((term) => (
+              <div key={term.who} className="rounded-md border border-border bg-surface p-5">
+                <p className="font-display text-xl font-bold tracking-wide uppercase">
+                  {term.who}
+                </p>
+                <p className="mt-2 text-sm leading-relaxed text-muted">{term.majority}</p>
+                <p className="mt-6 font-display text-xs font-semibold tracking-[0.2em] uppercase">
+                  Helped
+                </p>
+                <BillList rows={term.plus} tone="plus" />
+                <p className="mt-8 font-display text-xs font-semibold tracking-[0.2em] uppercase">
+                  Hurt
+                </p>
+                <BillList rows={term.minus} tone="minus" />
+              </div>
+            ))}
+            {gop ? <PartyFile col={gop} /> : null}
+            {dem ? <PartyFile col={dem} /> : null}
+            <ul className="grid grid-cols-1 gap-2 sm:grid-cols-2">
               {LAWS.map((l) => (
                 <li key={l.href}>
                   <a

diff --git a/scripts/make-party-charts.py b/scripts/make-party-charts.py
@@ -157,8 +157,8 @@ ax.grid(axis="y", color="#2a2a2a", lw=0.7)
 ax.set_axisbelow(True)
 ax.legend(
     handles=[
-        mpatches.Patch(facecolor=gop_c, label="Republicans ran both chambers"),
-        mpatches.Patch(facecolor=dem_c, label="Democrats ran both chambers"),
+        mpatches.Patch(facecolor=gop_c, label="Republican majority, House and Senate"),
+        mpatches.Patch(facecolor=dem_c, label="Democratic majority, House and Senate"),
         mpatches.Patch(facecolor=split_c, label="Split Congress"),
     ],
     loc="upper left",
@@ -456,7 +456,7 @@ plt.close()
 # Debt bars — easier than a pie
 fig, ax = plt.subplots(figsize=(16, 7), dpi=140, facecolor=bg)
 ax.set_facecolor(bg)
-labels = ["Republicans\nran both", "Democrats\nran both", "Split\ngavel"]
+labels = ["Republican\nmajority", "Democratic\nmajority", "Split\none chamber"]
 vals = [10.96, 12.65, 16.48]
 cols_d = [gop_c, biden_c, split_c]
 y = [2, 1, 0]
